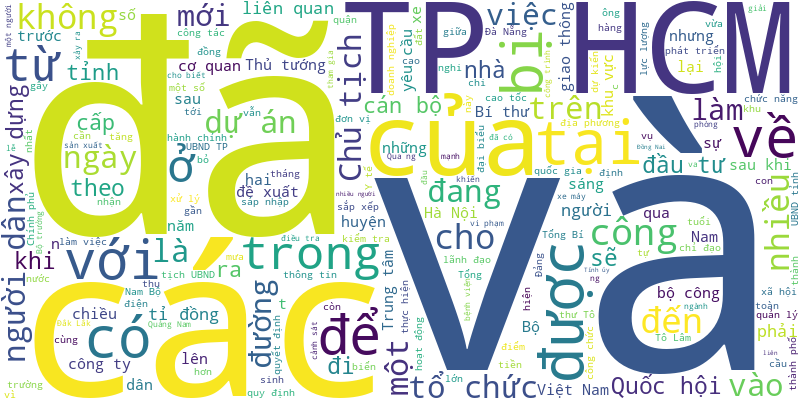
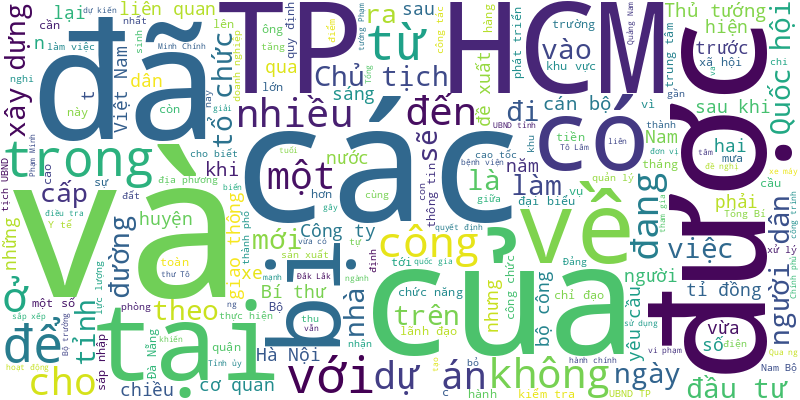
🍀 = 50%

diff --git a/README.md b/README.md
@@ -1,6 +1,21 @@
 # Tuoi Tre RSS 
 
 ## Giáo dục 
+- Ngoại trưởng Mỹ chỉ đạo tạm dừng cấp lịch phỏng vấn cấp visa du học trong thời gian triển khai kiểm tra mạng xã hội các ứng viên visa.
+- Politico nhận định nếu Washington tiến hành kế hoạch trên, quá trình xử lý thị thực sinh viên có thể bị làm chậm nghiêm trọng.
+- Đội tuyển học sinh Việt Nam đứng thứ năm trong kỳ thi Olympic tin học châu Á - Thái Bình Dương với 1 huy chương vàng, 2 huy chương bạc và 3 huy chương đồng.
+- Đoàn Việt Nam với 3 đội tuyển gồm 9 sinh viên tài năng đã xuất sắc đoạt giải ở cả 3 nội dung thi đấu tại vòng chung kết toàn cầu cuộc thi Huawei ICT Competition 2024 - 2025.
+- Sở Giáo dục và Đào tạo TP.HCM yêu cầu các trường trên địa bàn nghiêm túc thực hiện 5 nội dung trong chủ động triển khai phòng chống dịch COVID-19.
+- Ngày 27-5, Cơ quan Giáo dục New Zealand (ENZ) công bố loạt chính sách hỗ trợ đặc biệt từ toàn bộ tám trường đại học công lập New Zealand dành cho sinh viên Việt Nam.
+- Phòng Giáo dục và Đào tạo TP Phú Quốc xác nhận hiệu trưởng Trường mầm non Dương Đông vừa có báo cáo về vụ cô D. dạy lớp lá 5 nghi đánh cô T. - phó hiệu trưởng cùng trường - gây xôn xao dư luận.
+- Từng chật vật vì trượt chuẩn tiếng Anh đầu vào, ít ai ngờ ở tuổi 22, Nguyễn Ngọc Huyền lại trở thành chủ nhân học bổng tiến sĩ trị giá hơn 10 tỉ đồng cho 5 năm học tại Đại học Massachusetts Amherst (Mỹ).
+- Thứ trưởng Bộ GD-ĐT Phạm Ngọc Thưởng khẳng định kỳ thi tốt nghiệp THPT 2025 có nhiều điểm mới, trong đó cần cảnh giác với gian lận bằng AI, thiết bị công nghệ cao.
+- Các ‘công dân toàn cầu’ Royal School đã cùng với thầy cô, ba mẹ và bạn bè chung vui bằng những phần thưởng, những tràng pháo tay rộn ràng trong lễ tổng kết năm học 2024-2025.
+- Chiều 27-5, Phòng Giáo dục và Đào tạo TP Thủ Đức đã công bố đáp án của các đề khảo sát lớp 6 ba trường THCS Trần Quốc Toản 1, Hoa Lư, Bình Thọ.
+- Một đề thi thử ngữ văn tại TP.HCM sáng 27-5 dẫn dắt học sinh từ những cảm xúc với Hoàng Sa đến câu hỏi về trách nhiệm viết tiếp câu chuyện hòa bình.
+- Những ngày qua, hàng trăm sinh viên học hệ đào tạo từ xa Trường cao đẳng Kinh tế Công nghệ Hà Nội từ khắp nơi đang 'đứng ngồi không yên' vì bị dừng học không thời hạn.
+- Năm nay là năm đầu tiên học sinh cả nước thi tuyển sinh lớp 10 theo chương trình giáo dục phổ thông mới. Cách ra đề thi do vậy cũng có nhiều điểm khác.
+- Tổng thống Trump cho biết ông đang xem xét chuyển 3 tỉ USD tiền tài trợ liên bang đã được cấp cho Đại học Harvard sang các trường dạy nghề, đồng thời khẳng định 'chính phủ sẽ thắng' Harvard.
 - Sáng nay 27-5, hơn 100.000 học sinh lớp 12 ở TP.HCM bước vào kỳ thi thử tốt nghiệp THPT với môn thi ngữ văn.
 - Năm học 2025-2026, Học viện Ngoại giao dự kiến giữ nguyên mức học phí so với năm ngoái, dao động từ 3,4 - 4,5 triệu đồng/tháng.
 - Là một doanh nghiệp nhà nước nhưng Nhà xuất bản Giáo Dục khẳng định hoạt động bình đẳng, 'không hề có lợi thế độc quyền'.
@@ -988,23 +1003,59 @@ Trường đại học Văn Lang được QS xếp hạng top 51-100 thế giớ
 - Bà Vũ Thị Thúy Hà (51 tuổi, giáo viên Trường tiểu học Đông Thọ, TP Thanh Hóa, nguyên hiệu trưởng trường này) vừa bị khởi tố, tạm đình chỉ công tác vì liên quan đến bữa ăn bán trú.
 - Bộ Chính trị quyết định thực hiện miễn toàn bộ học phí cho học sinh từ mầm non đến hết trung học phổ thông công lập trên phạm vi cả nước, thực hiện từ đầu năm học mới 2025-2026.
 - Chương trình do Đại học Quản lý Singapore (SMU) thiết kế, hướng đến phát triển kiến thức và kỹ năng quản trị, tài chính, phát triển bền vững.
-- Tính đến ngày 28-2, đã có 6/8 trường của ngành công an nhân dân công bố chỉ tiêu tuyển sinh đào tạo đại học chính quy năm 2025.
-- Đề thi tuyển sinh lớp 10 năm học 2025-2026 sẽ tăng số câu hỏi vận dụng lên 40%, thay vì 25-30% như trước.
-- Năm 2025, Học viện An ninh nhân dân tuyển 440 chỉ tiêu đại học chính quy nhóm ngành nghiệp vụ an ninh và ngành an ninh mạng và phòng chống tội phạm sử dụng công nghệ cao.
-- Từ học kỳ II năm học 2024-2025, các trường đang thực hiện chương trình "Trường tiên tiến, hội nhập quốc tế" tại TP.HCM sẽ thay đổi mức thu học phí. Nhiều phụ huynh đặt câu hỏi số phận chương trình này sẽ ra sao?
-- Theo quy định của Bộ Giáo dục và Đào tạo về việc mở ngành, phải có tiến sĩ đúng chuyên ngành ngành vi mạch bán dẫn mới được mở ngành này. Các trường lo ngại có thể mất 10 năm để đào tạo được đội ngũ đáp ứng yêu cầu mở ngành.
-- Thí sinh chỉ cần ôn tập thật tốt cho kỳ thi tốt nghiệp THPT là đã đủ cơ sở để tham gia các kỳ thi đánh giá năng lực.
-- Lãnh đạo UBND TP Buôn Ma Thuột (Đắk Lắk) cho biết nhà trường đã tạm đình chỉ cô giáo đánh học sinh bằng dây điện.
-- Sinh viên thi IELTS đạt 7.0 trường thưởng 2 triệu đồng và tăng dần đến mức cao nhất 20 triệu đồng nếu đạt 9.0.
-- Hôm nay (28-2), Sở Giáo dục và Đào tạo TP.HCM bắt đầu đi kiểm tra công tác thu chi, quản lý nhân sự ở các trường công lập. Trong đó, sở sẽ kiểm tra Trường THPT Gia Định đầu tiên.
-- Hơn 26 năm thành lập và phát triển, Trường Quốc tế Á Châu (Asian School) đã mang đến nền tảng giáo dục chất lượng, đáp ứng xu thế hội nhập toàn cầu.
-- Hai ngày hội tư vấn tuyển sinh - hướng nghiệp diễn ra đồng thời tại TP.HCM và Hải Phòng vào chủ nhật (2-3) sẽ tập trung giải đáp chi tiết những thay đổi về kỳ thi tốt nghiệp THPT và xét tuyển đại học, cao đẳng 2025.
-- Sau khi sắp xếp, tinh gọn, cơ cấu tổ chức của Bộ Giáo dục và Đào tạo giảm từ 23 xuống còn 18 đơn vị. Hiệu lực thi hành bắt đầu từ ngày 1-3.
-- Cô giáo chủ nhiệm một trường tiểu học tại TP Buôn Ma Thuột (tỉnh Đắk Lắk) dùng dây điện (đã rút lõi) đánh học sinh khiến phụ huynh bức xúc, khiếu nại đến ngành chức năng.
-- Năm 2025, Trường đại học Luật TP.HCM dự kiến sẽ tăng mạnh chỉ tiêu tuyển sinh đại học chính quy, mở thêm tối thiểu 3 ngành mới lĩnh vực kinh doanh và quản lý.
-- Đề thi văn của Sở Giáo dục và Đào tạo TP.HCM có chủ đề 'Bước khỏi lối mòn'. Đây là đề thi dành cho học sinh lớp 12 thi học sinh giỏi cấp thành phố 2025.
 ![Edu](Edu.png)
 ## Thời Sự 
+- Một số tin tức đáng chú ý: Quốc hội bàn sửa Luật Quy hoạch, giảm 2% thuế VAT đến hết 2026; F88 lên kế hoạch chia cổ phiếu thưởng 1.200%; Điều chỉnh giao thông đường Lê Lợi, quận 1, TP.HCM...
+- Thay vì cấp thuốc bảo hiểm y tế hàng tháng, nhiều người mắc bệnh mạn tính như tiểu đường, huyết áp... mong được cấp thuốc 2 hoặc 3 tháng/lần để giảm thời gian chờ khám và giảm tải bệnh viện.
+- Hôm nay 28-5, thời tiết Bắc Bộ nhiều mây, chiều tối và đêm mưa tăng. Trung Bộ có nơi mưa to, Nam Bộ mưa tăng trở lại.
+- Tối 27-5, không lâu sau khi đến Hà Nội, Tổng thống Hungary Sulyok Tamas và Phu nhân đã cùng nắm tay nhau, dạo bước trên bờ hồ Hoàn Kiếm và cảm nhận cuộc sống về đêm tại Việt Nam.
+- Tổng Bí thư Tô Lâm nhấn mạnh nhân sự lãnh đạo các cấp trong giai đoạn mới phải hội tụ đủ đức, đủ tài, đủ tâm, đủ tầm, đủ sức, đủ nhiệt huyết cách mạng để gánh vác trọng trách lịch sử của đất nước.
+- Cục Quản lý dược vừa ra quyết định thu hồi giấy chứng nhận “Thực hành tốt sản xuất mỹ phẩm” (CGMP-ASEAN) của Công ty EBC Đồng Nai - nhà máy sản xuất các mỹ phẩm cho nhà Đoàn Di Băng vừa bị thu hồi thời gian qua.
+- "Chúng tôi không phải hướng tới sản xuất giày thể thao và áo thun. Chúng tôi muốn sản xuất thiết bị quân sự, làm những thứ lớn lao, phát triển trí tuệ nhân tạo (AI)", ông Trump nói.
+- Ngày Quốc tế thiếu nhi 1-6 đang đến gần, tiếp nối sau đó là du lịch cao điểm hè, nhiều điểm vui chơi giải trí đã rộn ràng tung hàng loạt khuyến mãi, hoạt động hấp dẫn dành cho trẻ em và gia đình.
+- Do khó khăn nên gần 10 tháng qua không được tái khám, không uống thuốc khiến tình hình sức khỏe cháu N. bị tổn thương 90%, ngày càng yếu. Hiện cháu N. đang được cấp cứu tại Bệnh viện sản nhi Sóc Trăng.
+- Gặp Thủ tướng Trung Quốc Lý Cường, Thủ tướng Phạm Minh Chính đề nghị dành ưu tiên hàng đầu thúc đẩy hợp tác đường sắt, quyết tâm khởi công tuyến Lào Cai - Hà Nội - Hải Phòng trong năm 2025.
+- Việt Nam đang đứng trước yêu cầu cấp thiết phải tái thúc đẩy tăng trưởng, trong đó việc phát triển kinh tế tư nhân không thể chỉ dừng lại ở thông điệp, mà cần các đột phá thể chế cụ thể.
+- Chiều 27-5, Sở Xây dựng Đà Nẵng cho biết vừa có thông báo về việc mở bán nhà ở xã hội tại khối nhà A, B dự án chung cư cho người thu nhập thấp An Trung 2, giá bán căn hộ là hơn 16,2 triệu đồng/m².
+- Thấy nữ du khách nước ngoài đang đi xe đạp trên đường ở Hội An, nam thanh niên chạy xe máy phía sau áp sát, giật túi xách có tiền, điện thoại rồi tẩu thoát.
+- Theo hình ảnh trên hệ thống quản lý cấp chứng chỉ nghiệp vụ chuyên môn về đấu thầu của Bộ Tài chính, chứng chỉ hành nghề đấu thầu của ông Vũ Ngọc Trụ - tổ trưởng tổ chuyên gia chấm thầu gói thầu của Tập đoàn Sơn Hải - chỉ có thời hạn đến 18-10-2023.
+- Theo EuroCham, bất cập về giấy phép lao động cho người nước ngoài của Việt Nam gây ra nhiều khó khăn, có trường hợp một chuyên gia logistics 25 năm kinh nghiệm mất sáu tháng mới được nhập cảnh.
+- Cơ quan chức năng xác định vụ 7 người mặc đồ đen, bịt mặt đập phá quán phở ở Đắk Lắk là gây áp lực để đòi nợ… người con rể trong gia đình này.
+- Viện trưởng Viện Kiểm sát nhân dân tối cao Nguyễn Huy Tiến dẫn báo cáo Bộ Công an cho biết mỗi xã sau sáp nhập tùy theo địa bàn có thể bố trí 30 - 60 cán bộ công an, trong đó từ 6 -10 điều tra viên.
+- Người dân cho biết khoảng thời điểm 15h chiều 27-5, trước căn nhà 25F Cát Linh (gần nơi đào hầm dự án metro Nhổn - ga Hà Nội), bùn từ dưới lòng đất bỗng nhiên phụt lên, cao gần 1m.
+- Lực lượng cứu hộ dùng máy bơm công suất lớn hút nước để tìm kiếm người lao xe máy xuống 'hố tử thần' ở Na Rì, Bắc Kạn.
+- Tổng thống Pháp Macron, Phó chủ tịch nước Võ Thị Ánh Xuân và lãnh đạo cấp cao hai nước bấm nút khởi công Nhà máy vắc xin và sinh phẩm VNVC, hiện thực hóa hợp tác chuyển giao công nghệ sản xuất vắc xin giữa hai đối tác chiến lược toàn diện.
+- Phòng Giáo dục và Đào tạo TP Phú Quốc xác nhận hiệu trưởng Trường mầm non Dương Đông vừa có báo cáo về vụ cô D. dạy lớp lá 5 nghi đánh cô T. - phó hiệu trưởng cùng trường - gây xôn xao dư luận.
+- Đại lý đổi ngoại tệ chỉ được mua ngoại tệ bằng tiền mặt, và bán lại số ngoại tệ tiền mặt đổi được cho tổ chức tín dụng ủy quyền theo đúng quy định về quản lý ngoại hối.
+- Ban Chấp hành Đảng bộ tỉnh Cà Mau sau hợp nhất có 61 thành viên, Ban Thường vụ Tỉnh ủy có 23 thành viên. Mục tiêu tăng trưởng giai đoạn 2026-2030 hơn 10%/năm.
+- Cơ quan khí tượng cho biết từ chiều tối 28-5, mưa dông tại TP.HCM, Nam Bộ gia tăng trở lại trong vài ngày.
+- Tình huống nêu trong bài 'Tài xế ô tô mở cửa xe bất cẩn, hắt văng tài xế xe ôm công nghệ ở Thủ Đức' không phải là cá biệt.
+- Bùn từ lòng đất lại trào lênh láng ra khu vực phố Cát Linh (Đống Đa) trong quá trình đào hầm để thi công dự án metro Nhổn - ga Hà Nội.
+- Phó chủ tịch UBND thành phố Thủ Đức - ông Đỗ Anh Khang - đã chỉ đạo phòng chuyên môn xem xét giải quyết kiến nghị tính lại tiền sử dụng đất của hộ ông Đặng Hữu Phước.
+- Kiên Giang vừa có kế hoạch triển khai thực hiện các dự án phục vụ APEC 2027 ở TP Phú Quốc, gồm 21 dự án được chia làm hai nhóm đầu tư công và đầu tư theo phương thức đối tác công tư (PPP).
+- Chiều 27-5, thừa ủy quyền của Thủ tướng, Bộ trưởng Bộ Xây dựng Trần Hồng Minh trình bày tờ trình về dự án Luật Đường sắt (sửa đổi).
+- Thủ tướng có quyền đề nghị Ủy ban Thường vụ Quốc hội ban bố tình trạng khẩn cấp. Trường hợp Ủy ban Thường vụ không thể họp ngay, Thủ tướng đề nghị Chủ tịch nước công bố tình trạng khẩn cấp trong cả nước hoặc ở từng địa phương.
+- Cơn lũ dữ bất ngờ xuất hiện trong đêm đã cuốn đi nhiều tài sản của đôi vợ chồng mới khởi nghiệp ở Hà Tĩnh.
+- Một ban quản lý dự án tại Đắk Lắk đang bị thanh tra tỉnh kiểm tra sau khi sử dụng nguồn thu nhập tăng thêm của cán bộ, nhân viên để xây dựng trụ sở làm việc mới với tổng mức đầu tư gần 29 tỉ đồng.
+- Tỉnh Lào Cai dự kiến hỗ trợ 35 triệu đồng cho cán bộ, công chức, viên chức và người lao động trên địa bàn tỉnh chuyển về làm việc tại Yên Bái ngay sau khi sáp nhập.
+- Liên quan vụ Tập đoàn Sơn Hải phản đối vì bỏ giá thấp nhất nhưng rớt thầu, tổ chuyên gia đấu thầu nêu lý do gì trong báo cáo đánh giá hồ sơ dự thầu?
+- Cần Thơ đã giải quyết chế độ, chính sách cho 40 cán bộ, công chức, viên chức và người lao động bị ảnh hưởng do thực hiện việc sắp xếp theo nghị định số 177 và nghị định số 178 của Chính phủ với số tiền hơn 41 tỉ đồng.
+- Một con cá sấu xuất hiện dưới sông Rạch Tràm. UBND thị trấn Bình Phú, huyện Cai Lậy, tỉnh Tiền Giang đã ra thông báo khẩn cảnh báo đến người dân.
+- Cuối tháng 5 đầu tháng 6 tới, Ban Thường vụ Tỉnh ủy Quảng Ngãi sẽ phê duyệt chức danh lãnh đạo chủ chốt của 55 xã và đặc khu Lý Sơn. Trong sắp xếp bộ máy, công tác cán bộ, Tỉnh ủy Quảng Ngãi thực hiện phương châm dân chủ, khách quan.
+- Ngày 27-5, chủ một đại lý vé số ở quận 12, TP.HCM cho biết hôm 17-5, bà bị một người đàn ông lừa đổi hai tờ vé số giả trúng thưởng giải tư.
+- Cơ quan chức năng ở Hà Tĩnh đã yêu cầu chủ tàu Công Thành 07 lập phương án trục vớt, thu gom hết dầu ở trên tàu để đảm bảo an toàn khu vực, tránh gây ô nhiễm vùng biển.
+- Cơ quan điều tra Viện Kiểm sát nhân dân tối cao đã tiếp nhận tố giác về tội phạm trong quá trình giải quyết vụ tai nạn giao thông ở huyện Trà Ôn, tỉnh Vĩnh Long.
+- Khoảng 350 tấn giá đỗ được ủ hóa chất có hại cho sức khỏe được phân phối đến nhiều chợ dân sinh, cửa hàng rau củ trên địa bàn tỉnh Lào Cai và các địa phương lân cận trong khoảng 1 năm qua.
+- Ngày càng nhiều bác sĩ 'vô tư' đăng tải hình ảnh, video quá trình thăm khám, điều trị của bệnh nhân lên kênh mạng xã hội như TikTok, Facebook...
+- Người đàn ông quốc tịch Nam Phi thuê phòng khách sạn 2 ngày không ra ngoài. Nghi có chuyện bất thường, khách sạn báo công an, sau đó mở phòng kiểm tra thì phát hiện khách thuê đã chết trong trạng thái khỏa thân.
+- Từ hàng loạt vụ việc bị phát hiện thời gian qua, đại biểu đề nghị bổ sung hình phạt tử hình (hiện nay cao nhất là chung thân) với tội sản xuất, buôn bán hàng giả, nhất là thực phẩm chức năng và sữa giả.
+- Người dân đi từ quốc lộ 13 vào trung tâm TP.HCM thắc mắc vì sao đường chui Tầm Vu dưới chân cầu Bình Triệu bị rào chắn?
+- Ông ngoại lái ô tô chở cháu 30 tháng tuổi từ huyện Tư Nghĩa đến TP Quảng Ngãi. Khi qua cầu không có lan can, chiếc xe lao xuống sông Phước Giang.
+- Đà Nẵng cảnh báo tình trạng khan hiếm cát xây dựng có thể ảnh hưởng đến mục tiêu tăng trưởng trên 10% của thành phố trong năm 2025.
+- Dự án xây mới 5 tuyến đường khu Trường đua Phú Thọ là tiền đề để hình thành một khu liên hợp thể thao hoàn chỉnh, sẵn sàng phục vụ Đại hội Thể thao toàn quốc năm 2026.
+- Tập đoàn Trường Hải (THACO) vừa có văn bản gửi Thủ tướng Phạm Minh Chính và Phó thủ tướng Trần Hồng Hà, đề xuất được tham gia đầu tư dự án đường sắt tốc độ cao Bắc - Nam với cam kết làm chủ công nghệ, phát triển công nghiệp đường sắt Việt Nam.
+- Đại biểu Quốc hội tranh luận sôi nổi về việc bổ sung án chung thân không xét giảm án trong dự án luật.
+- Sở Xây dựng TP.HCM vừa thông báo điều chỉnh tổ chức giao thông trên đường dẫn cao tốc TP.HCM - Long Thành - Dầu Giây nhằm đảm bảo an toàn giao thông.
 - Thời gian qua, khi buộc khách hàng cá nhân phải xác thực thông tin sinh trắc học, tội phạm mạng đã chuyển qua tài khoản tổ chức để lừa đảo.
 - Ba người phụ nữ đã bị Cơ quan an ninh điều tra Công an tỉnh Quảng Nam khởi tố về tội vận chuyển trái phép tiền tệ qua biên giới.
 - UBND tỉnh Đồng Tháp đã chi trả hơn 88 tỉ đồng cho 58 cán bộ nghỉ việc để sắp xếp tinh gọn bộ máy năm 2025 theo nghị định 178 và 67.
@@ -1954,59 +2005,10 @@ Trường đại học Văn Lang được QS xếp hạng top 51-100 thế giớ
 - Chủ tịch Quốc hội cho hay Ủy ban Thường vụ Quốc hội sẽ họp 2 đợt xem xét nhiều nội dung như sửa Bộ luật Hình sự, chủ trương đầu tư đường vành đai 4 TP.HCM.
 - Cảnh sát cho hay lúc 8h40 ngày 10-5, anh N.B.A. (trú tại quận Hoàng Mai, Hà Nội) - tài xế ô tô tông liên hoàn 6 xe máy - đã đến cơ quan công an làm việc.
 - Chủ tịch UBND tỉnh Long An chỉ đạo các đơn vị liên quan rà soát các dự án từ 2019 đến 2023 để phục vụ điều tra vụ án liên quan Công ty TNHH cây xanh Công Minh.
-- Đội tàu chiến thuộc Hạm đội Thái Bình Dương (Hải quân Nga) với 262 thủy thủ đoàn đã cập cảng Tiên Sa Đà Nẵng trong chuyến tham quan, giao lưu 4 ngày.
-- Cơn mưa lớn kéo dài ở Bình Dương đã khiến 30m tường rào công ty bị đổ sập, 4 trụ điện và đèn tín hiệu bị ngã đổ, nhiều nơi ngập sâu. Lực lượng chức năng đang khẩn trương khắc phục sự cố.
-- Trung tâm Chuyển đổi số TP.HCM tổ chức tập huấn sử dụng phần mềm dùng chung cho cán bộ, công chức, viên chức, có sự tham gia của đại diện các sở ngành tỉnh Bình Dương và Bà Rịa - Vũng Tàu.
-- Khi người lớn phát hiện, chạy đến cứu thì hai cháu bé đã chết đuối ở hồ chứa nước gần nhà.
-- Nhắc đến các vụ sữa giả, thuốc, thực phẩm chức năng giả, Phó thủ tướng Nguyễn Chí Dũng nhấn mạnh nếu không có các tiêu chuẩn, quy chuẩn thì rất khó quản lý.
-- Ngày 10-5, bình gas trong căn nhà tại hẻm đường 182, phường Tăng Nhơn Phú A, TP Thủ Đức (TP.HCM) bị rò rỉ, sau đó gặp nguồn nhiệt gây cháy nổ, hai người tử vong.
-- Vụ việc lòng se điếu không phải là hiện tượng cá biệt. Nó chỉ là phần nổi của tảng băng trôi trong công tác quản lý an toàn vệ sinh thực phẩm hiện nay.
-- Dù đã chạy vào tiệm cầm đồ để né tránh, nhưng nam shipper vẫn bị Nguyễn Thái Tú hung hăng đuổi đánh gây thương tích.
-- Hà Nội lý giải gì về việc người dân xếp hàng từ rạng sáng để chờ lấy số thứ tự nộp hồ sơ, xử lý thủ tục hành chính?
-- Để đột phá, phát triển, bắt buộc phải đổi mới tư duy và cách làm, lấy khoa học công nghệ, đổi mới sáng tạo và chuyển đổi số làm nền tảng.
-- Nhiều đường dây trung thế ở Đồng Nai gặp sự cố do mưa lớn và dông lốc, hàng ngàn người dân trong khu vực bị mất điện.
-- Mưa lớn kéo dài trên diện rộng tại Bình Dương, có nơi ngập sâu nên lực lượng chức năng phải hỗ trợ giải cứu người dân.
-- Dàn mô tô 'khủng' gồm 70 chiếc của Liên đoàn Mô tô Hải Phòng sẽ tham gia diễu hành 70 năm Ngày Giải phóng Hải Phòng.
-- Đơn vị tổ chức mô phỏng bắn súng thần công ở khu vực Kỳ đài Huế được yêu cầu cung cấp các loại tài liệu, giấy tờ chứng minh nguồn gốc hợp pháp của loại pháo cho Công an TP Huế.
-- Đại biểu Trần Khánh Thu đề xuất quy định rõ hơn cơ chế bồi thường với việc quảng cáo sai sự thật của người quảng cáo, nhất là người nổi tiếng.
-- Rạng sáng 10-5, xe khách giường nằm đang chạy trên cao tốc Vĩnh Hảo - Phan Thiết thì bốc cháy dữ dội, hành khách tháo chạy.
-- Sáng 10-5, TP.HCM chính thức khởi công dự án nạo vét, cải tạo môi trường, xây dựng hạ tầng rạch Xuyên Tâm. Đây là tuyến rạch bị ô nhiễm, chờ cải tạo hơn hai thập kỷ.
-- Trải qua 7 lần phẫu thuật phần đầu, 13 tháng nằm 5 bệnh viện, tốn gần 1 tỉ đồng tiền điều trị cậu bé học sinh lớp 3 vẫn phải "sống đời thực vật".
-- Dự kiến kinh phí tiết kiệm chi tiền lương và định mức chi hành chính trong giai đoạn từ 2026-2030 của cả nước khoảng 190.500 tỉ đồng.
-- Trường THPT Cao Bá Quát (Đắk Lắk) đã có báo cáo gửi Sở Giáo dục và Đào tạo tỉnh này liên quan việc nhiều học sinh lớp 12 'tự nguyện' xin nghỉ học trước kỳ thi tốt nghiệp.
-- Người dân Nghệ An cùng nhau hỗ trợ, mua giúp dưa hấu cho tài xế xe tải sau vụ tai nạn giao thông với xe giường nằm sáng 10-5.
-- Ở thượng nguồn sông Gianh, thuộc địa phận xã Lâm Hóa (huyện Tuyên Hóa, tỉnh Quảng Bình), có một cây bằng lăng cổ thụ sừng sững như một biểu tượng của sự trường tồn. Hoa đang đến mùa nở rộ, khiến nhiều người thích thú đến check-in.
-- Chủ tịch Đà Nẵng là tổ trưởng tổ công tác nghiên cứu ý tưởng lấn biển tại vịnh Đà Nẵng.
-- Do mưa lớn, một số tuyến đường ở Đồng Nai ngập cục bộ, lại trúng giờ cao điểm nên nhiều người dân phải đội mưa, lội nước đi làm.
-- Bộ Nội vụ đã gửi Chính phủ tờ trình đề án liên quan sáp nhập đơn vị cấp tỉnh năm 2025 và nêu phương án kiện toàn tổ chức bộ máy, sắp xếp cán bộ, công chức.
-- Cơn mưa như trút nước sáng 10-5 khiến nhiều tuyến đường tại TP.HCM ngập nước nặng, tại rốn ngập chợ Thủ Đức cống lại bung lên.
-- Khối mây dông lớn bao phủ TP.HCM và Đông Nam Bộ từ sáng sớm, gây mưa to cho TP.HCM và các tỉnh lân cận.
-- Chiếc ô tô con tông 3 xe máy đang chạy, rồi tiếp tục lao vào 3 xe máy khác đang dựng trên vỉa hè. 2 người bị thương, phải đi bệnh viện cấp cứu.
-- Với trách nhiệm đảm bảo cung ứng điện, EVN khẳng định có trách nhiệm đảm bảo nền kinh tế có sức cạnh tranh và an sinh xã hội. Lãnh đạo EVN cho rằng mức tăng 4,8% là "tương đối phù hợp".
-- Một số tin tức: Quốc hội thảo luận siết quảng cáo với người nổi tiếng, KOL; Gần 200.000 tài khoản chứng khoán mở mới; Sức khỏe răng miệng học sinh chuyển biến tích cực nhờ mô hình trường - trạm...
-- Thông điệp được Tổng Bí thư Tô Lâm nêu khi gặp Chủ tịch Đảng Nước Nga thống nhất Dmitry Medvedev ngày 9-5 tại Matxcơva.
-- Hôm nay 10-5, thời tiết cả nước bắt đầu chuyển mưa, có nơi mưa to đến rất to.
-- Tổng Bí thư Tô Lâm gặp các nhà lãnh đạo Cuba, Trung Quốc, Uzbekistan và Slovakia ngày 9-5, nhân dịp đến Nga dự lễ duyệt binh Ngày Chiến thắng.
-- Cơ quan thuế xác định ban quản trị chung cư Conic Đông Nam Á trốn thuế hơn 453 triệu đồng qua việc không lập 7.260 tờ hóa đơn khi cung cấp dịch vụ cho cư dân.
-- Thiếu tướng Nguyễn An Phong được bổ nhiệm giữ chức chính ủy, bí thư Đảng ủy Quân chủng Hải quân nhiệm kỳ 2020-2025.
-- Chủ tịch UBND TP.HCM vừa có quyết định bổ nhiệm ông Nguyễn Toàn Thắng làm giám đốc Sở Nông nghiệp và Môi trường TP.HCM.
-- Xã, phường có quy mô dân số, tổ chức đảng và đảng viên lớn, có vai trò động lực phát triển kinh tế có thể phân công ủy viên Ban Thường vụ Thành ủy hoặc ủy viên Ban Chấp hành đảng bộ thành phố làm bí thư.
-- Một người có vai trò là đồng phạm, được Phó Đức Nam phân công quản lý chung hoạt động lừa đảo và nhân sự tại Việt Nam. Còn một người được giao quản lý cấp khu vực của sàn lừa đảo Soho Markets.
-- Nam shipper đi giao hàng, trên đường về thì bị sét đánh phải nhập viện cấp cứu.
-- Đảng ủy Trường đại học Y khoa Phạm Ngọc Thạch thống nhất thu hồi quyết định của hiệu trưởng nhà trường về thành lập tổ kiểm tra hoạt động của hội đồng khoa học và đào tạo, liên quan đề xuất thành lập hội đồng giáo sư cơ sở năm 2025.
-- Trung tướng Đào Tuấn Anh, phó giám đốc Học viện Quốc phòng, được Bộ trưởng Bộ Quốc phòng bổ nhiệm giữ chức vụ tư lệnh Quân đoàn 34.
-- Tại dự thảo nghị định phân định thẩm quyền lĩnh vực nội vụ khi tổ chức chính quyền địa phương 2 cấp, Bộ Nội vụ đề xuất chuyển 120 nội dung thuộc 8 lĩnh vực quản lý nhà nước từ cấp huyện xuống cấp xã.
-- Sau cơn mưa đầu mùa tại TP.HCM, cá ngoi lên mặt kênh Nhiêu Lộc - Thị Nghè để lấy không khí thì bị 'ná thủ' bắn mang lên bờ.
-- Chủ tịch UBND TP Hà Nội Trần Sỹ Thanh nói như vậy tại lễ khai trương Trung tâm báo chí thủ đô Hà Nội, diễn ra chiều 9-5.
-- Đoàn công tác của Bộ Chính trị làm việc với Ban Thường vụ Tỉnh ủy Khánh Hòa và Ninh Thuận, về việc thực hiện chủ trương hợp nhất hai tỉnh.
-- TP.HCM sẽ sắp xếp 273 phường, xã, thị trấn thành 102 phường, xã. Dưới đây là trụ sở làm việc dự kiến của các đơn vị mới.
-- Đó là chia sẻ được nêu ra tại tọa đàm 'Để kinh tế tư nhân bứt phá theo nghị quyết 68 - Những việc cần làm ngay', do Cổng thông tin điện tử Chính phủ tổ chức ngày 9-5.
-- Dự án cao tốc Bảo Lộc - Liên Khương của Lâm Đồng là một phần đường cao tốc nối Đà Lạt và TP.HCM.
-- Sở Giáo dục và Đào tạo tỉnh Đắk Lắk lập đoàn kiểm tra việc trường có nhiều học sinh lớp 12 'tự nguyện' nghỉ học trước kỳ thi tốt nghiệp.
-- Ông Nguyễn Đức Toàn - phó tổng giám đốc Tổng công ty Xây dựng Hà Nội (Hancorp), đơn vị phụ trách thầu phần mái nhà ga T3 sân bay Tân Sơn Nhất - vừa lên tiếng làm rõ nguyên nhân và hướng xử lý sự cố rò rỉ sau trận mưa lớn.
-- Tập đoàn Điện lực Việt Nam (EVN) công bố quyết định số 599 về việc điều chỉnh mức giá bán lẻ điện bình quân lên mức 2.204,06 đồng/kWh (chưa gồm VAT) từ ngày 10-5.
 ![New](News.png)
 ## Nhịp sống số 
+- Định danh điện tử đang trở thành công cụ quan trọng trong thời đại số hóa, giúp đơn giản hóa các giao dịch trực tuyến và tăng cường bảo mật. Tuy nhiên, người dùng cần hiểu rõ bản chất và lưu ý khi sử dụng để đảm bảo an toàn thông tin.
+- Mặc dù Facebook Messenger khá phổ biến nhưng không phải người dùng nào cũng thích xài. Và họ đã tìm đến những ứng dụng nhắn tin thay thế khác.
 - Ngày 26-5, FPT được vinh danh 'Nhà mạng được yêu thích nhất' tại Vietnam Gameverse 2025, với lượng bình chọn áp đảo từ cộng đồng game thủ cả nước.
 - Thủ tướng Phạm Minh Chính vừa yêu cầu các bộ ngành triển khai chiến dịch tổng rà soát tài khoản ngân hàng, sim điện thoại để phòng ngừa tội phạm lừa đảo trực tuyến.
 - Đoạn video xúc động về cựu binh Thế chiến 2 hát tưởng nhớ người bạn gây sốt mạng xã hội Mỹ, nhưng đây thực chất lại chỉ là sản phẩm dàn dựng bằng công nghệ AI tinh vi.
@@ -3004,6 +3006,4 @@ Trường đại học Văn Lang được QS xếp hạng top 51-100 thế giớ
 - TTO - Trong một động thái được cho là phản ứng đối đầu của Apple với lực lượng hành pháp, công ty này cho biết sẽ tung ra phần mềm cho phép vô hiệu hóa luôn cửa bảo mật cuối cùng của iPhone.
 - TTO - Mặc dù giá đồng tiền ảo Bitcoin không được khả quan thời gian gần đây nhưng những chiếc máy ‘đào’ tiền ảo vẫn thu hút sự quan tâm mạnh của giới thợ ‘đào’.
 - TTO - Từ năm 2015, Amanda Southworth đã bắt đầu viết các ứng dụng di động và đến nay, các dự án của cô gái 16 tuổi này đã nhận được khoản tài trợ 25.000 USD.
-- TTO - Trong phiên giao dịch trở lại đầu tiên sau 8 tuần tạm ngưng vì lệnh cấm của chính quyền Mỹ, giá cổ phiếu công ty ZTE của Trung Quốc lao dốc 40%.
-- TTO - Sau khi phát hiện VPNFilter, các nhà nghiên cứu bảo mật tiếp tục phát hiện ra một mã độc khác, có tên là Prowli, đã xâm phạm hơn 40.000 máy chủ, modem và thiết bị IoT thuộc nhiều tổ chức trên toàn thế giới với mức độ nguy hiểm gấp nhiều lần.
 ![life](Life.png)
